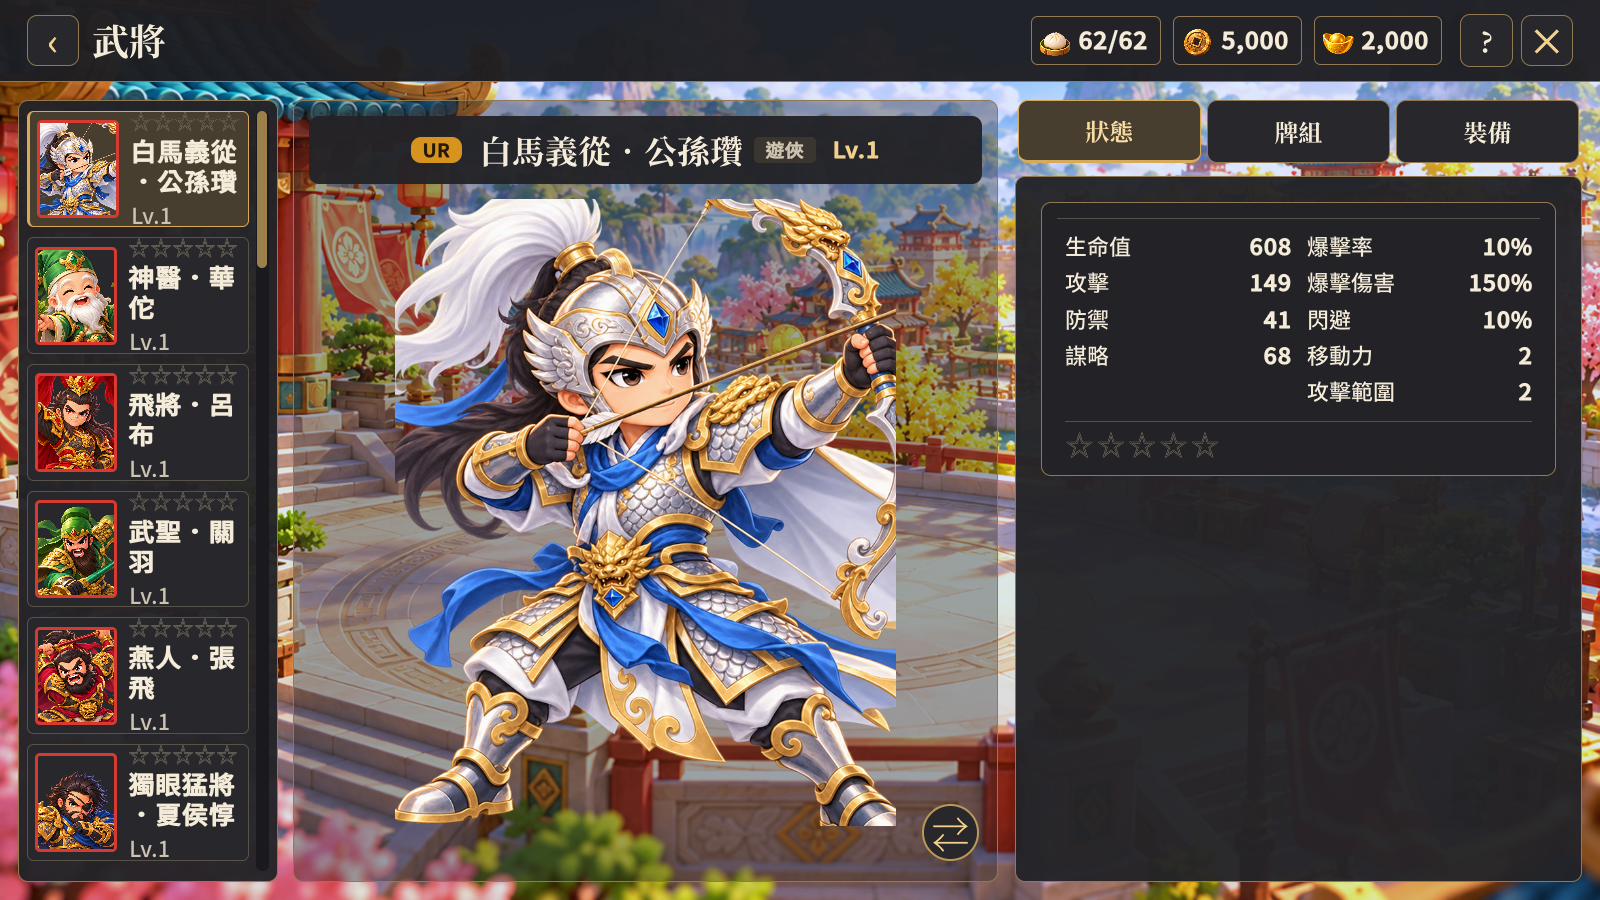
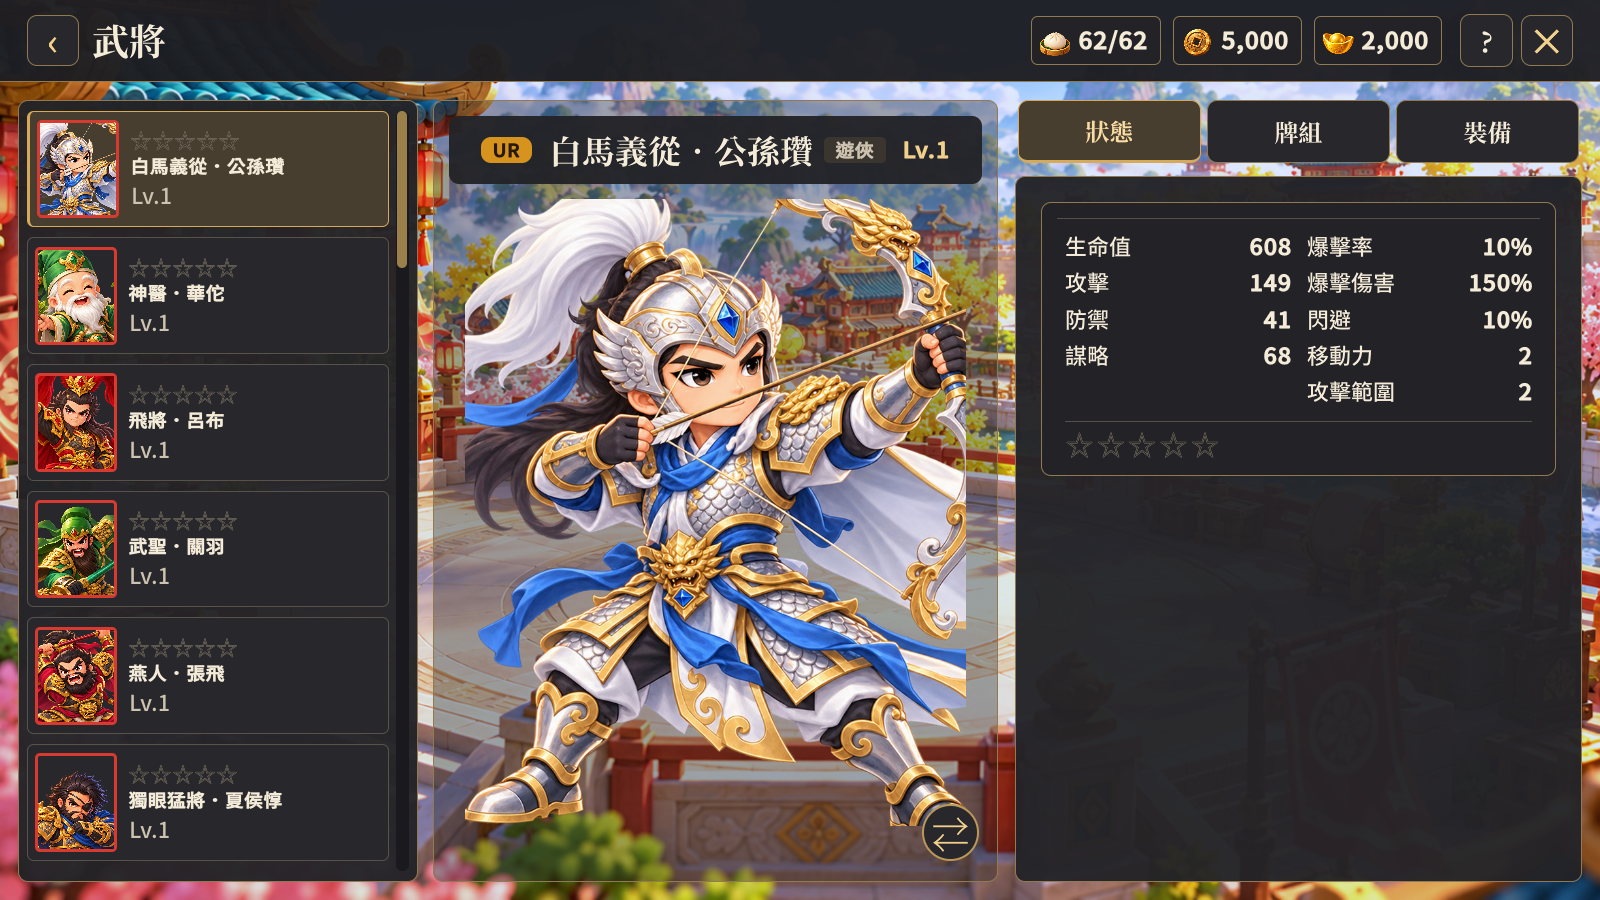
記錄名稱單行與選取保留捲軸的雙尺寸驗收

Changed region(s): [[0.0625, 0.0933, 0.625, 0.9956]]

diff --git a/docs/ui-roster-review/README.md b/docs/ui-roster-review/README.md
@@ -8,10 +8,12 @@
 - 修復捲軸軌道及滑塊高度，列表可捲到最後一位。
 - 星數依既有突破數顯示；0 突為五顆黑色空星，突破後逐顆填入金星。列表星數依後續要求放在人物名稱上方，狀態區使用同一套星色。
 - 模型／立繪切換改為圓形雙向箭頭圖示，保留懸停提示。
+- 後續修正：左欄由 312 加寬至 480 邏輯像素，名字由 26 降為 22，完整名字單行顯示。
+- 選取武將或其他頁內重建時，保留左側捲動位置，於新列表完成版面配置後還原。
 
 ## 驗證
 
-執行 tools/verify-roster-ui.ps1，使用隔離專案建置與不持久化本機資料，注入全稀有度角色驗收。1600×900、2000×900 各 14 張，共 28 張；檢查兩頁的排序、框色、列表文字、星數位置與實際解析色、0／3／5 突、捲軸中段與底端、切換圖示事件及返回立繪。
+執行 tools/verify-roster-ui.ps1，使用隔離專案建置與不持久化本機資料，注入全稀有度角色驗收。最新 1600×900、2000×900 各 18 張，共 36 張；檢查兩頁的排序、框色、列表文字、星數位置與實際解析色、0／3／5 突、捲軸中段與底端、切換圖示事件及返回立繪。逐一量測所有完整名字的文字寬度，確認不超過可用寬度且不換行；從中段及底端送出武將選取事件，確認選中角色更新且捲動偏移誤差不超過 1 邏輯像素。
 
 兩尺寸建置／執行及上述結構檢查通過，無新增執行或樣式錯誤。既有 HomeLayout 的 last-child 偽類別警告分開記錄於 manifest。本次確認切換事件與 UI 容器，沒有將模型美術品質列為通過項目；沒有修改突破或其他遊戲規則。
 
@@ -20,3 +22,7 @@
 ![1600：0 突與名稱上方星數](heroes-1600-zero.png)
 
 ![2000：3 突](heroes-2000-three.png)
+
+![1600：中段選取後保留位置](heroes-1600-middle-selected.png)
+
+![1600：底端選取後保留位置](heroes-1600-end-selected.png)
